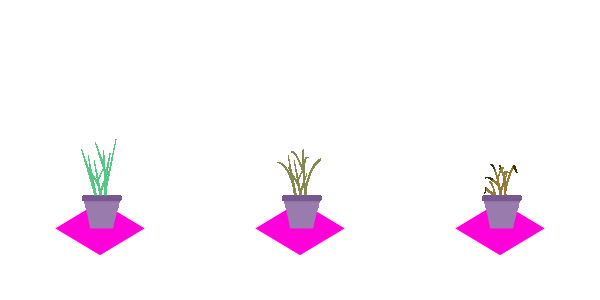
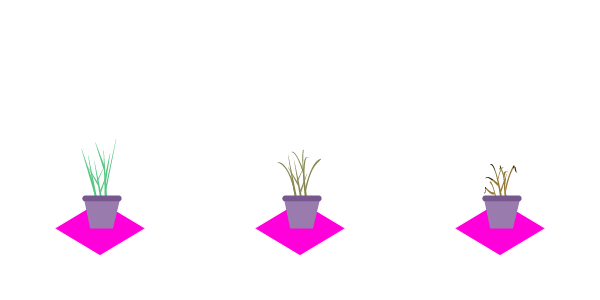
transparent animateions

Changed region(s): [[0.12, 0.48, 0.21, 0.66], [0.45, 0.51, 0.54, 0.66], [0.81, 0.54, 0.87, 0.66]]

diff --git a/melonJS/examples/isometric_rpg/js/resources.js b/melonJS/examples/isometric_rpg/js/resources.js
@@ -7,8 +7,9 @@ game.resources = [
     { name: "forest",  type:"image", src: "data/img/forest.png" },
     { name: "meta_collide",  type:"image", src: "data/img/meta_collide.png" },
     { name: "Papa_Squat-01", type:"image", src: "data/img/Papa_Squat-01.png" },
+    { name: "Papa_Pee", type:"image", src: "data/img/peetimsheet.png" },
     { name: "Mama_Squat-01", type:"image", src: "data/img/Mama_Squat-01.png" },
-    { name: "plant", type:"image", src: "data/img/PLANT-healthly-01.png"},
+    { name: "plant", type:"image", src: "data/img/plansheet.png"},
 
     { name: "floorimages", type:"image", src: "data/img/floorimages.png"},
     { name: "floortiles", type:"tsx", src: "data/map/floortiles.tsx"},

diff --git a/assets/animations/spritesheet.py b/assets/animations/spritesheet.py
@@ -13,12 +13,14 @@ print(files)
 images = []
 for f in files:
    print(f)
-   images.append(cv2.imread(folder + "/" + f))
+   images.append(cv2.imread(folder + "/" + f, cv2.IMREAD_UNCHANGED))
    
    
    cv2.imshow("k", images[-1])
+   print(images[-1].shape)
    cv2.waitKey(30)
 x = np.concatenate(images, axis=1)
 cv2.imshow("k", x)
-cv2.waitKey(343453530)
+cv2.waitKey(343)
 cv2.imwrite(folder[:-2] + "sheet.png", x)
+print(x.shape)
